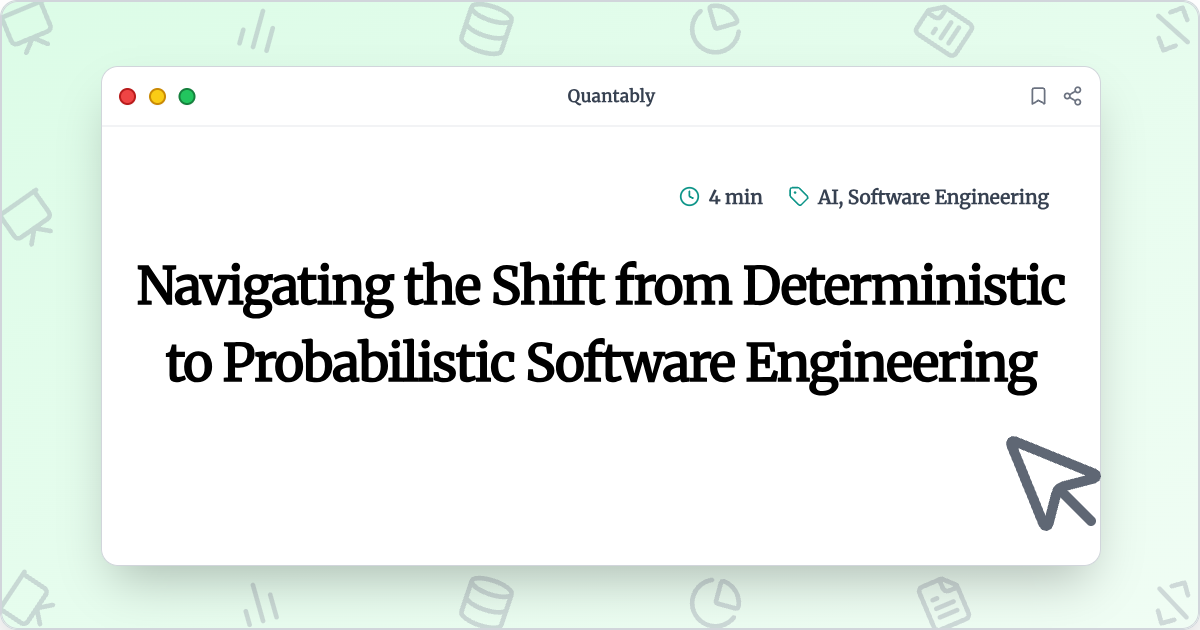
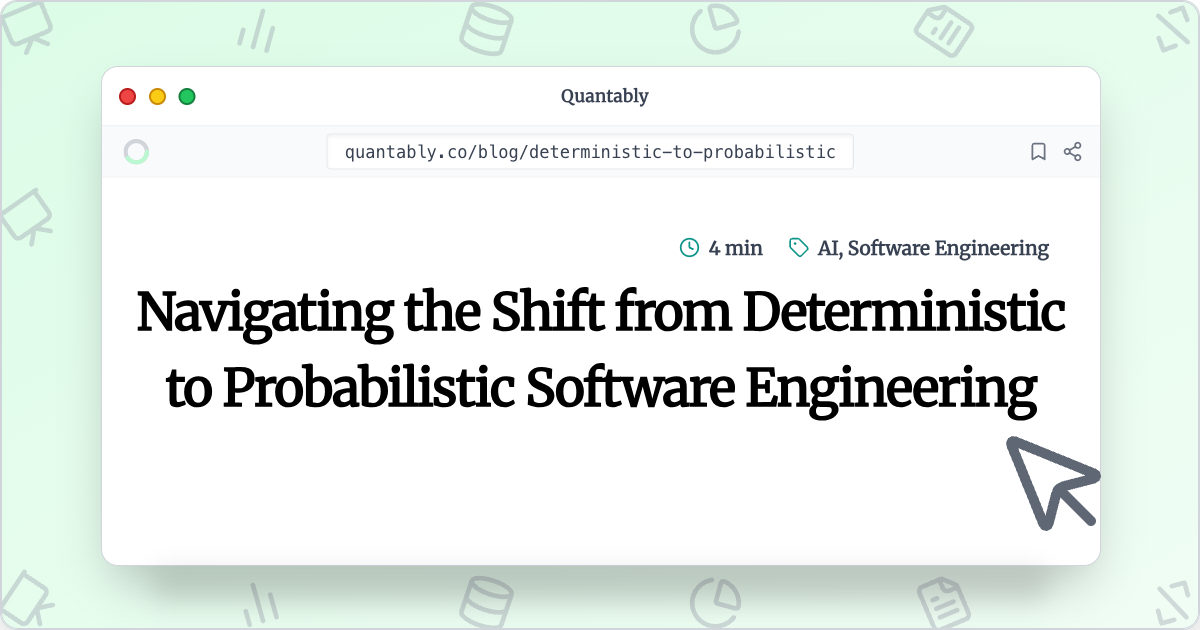
rename post and add tailwind bullets

diff --git a/src/components/SocialMediaCard.js b/src/components/SocialMediaCard.js
@@ -35,6 +35,8 @@ const SocialMediaCard = ({
 
   return (
     <div className="relative w-[1200px] h-[630px] bg-gradient-to-br from-green-100 to-green-50 overflow-hidden border border-gray-300 rounded-2xl shadow-2xl">
+      {/* Subtle shadow beneath the window for depth */}
+      <div className="absolute left-1/2 -translate-x-1/2 bottom-6 w-[900px] h-8 bg-black/10 rounded-full blur-md z-30 pointer-events-none" />
       {/* Window frame border */}
       <div className="absolute inset-0 border border-gray-300 rounded-2xl pointer-events-none z-40" />
 
@@ -80,8 +82,37 @@ const SocialMediaCard = ({
               <div className="flex-1 text-center">
                 <span className="text-base font-semibold text-gray-700 tracking-wide">{siteName}</span>
               </div>
-              {/* Bookmark/share icons placeholder */}
-              <div className="flex items-center space-x-3">
+              {/* Empty right side for symmetry */}
+              <div className="w-16" />
+            </div>
+            {/* URL bar with loading spinner, URL, and bookmark/share icons */}
+            <div className="h-12 flex items-center px-4 border-b border-gray-100 bg-gray-50">
+              {/* Loader with progress in green matching background */}
+              <div className="flex items-center justify-center w-8 h-8 mr-2">
+                <svg className="h-6 w-6" viewBox="0 0 24 24">
+                  {/* Background circle */}
+                  <circle cx="12" cy="12" r="10" stroke="#d1d5db" strokeWidth="4" fill="none" />
+                  {/* Progress arc in green (matching background) */}
+                  <circle
+                    cx="12"
+                    cy="12"
+                    r="10"
+                    stroke="#bbf7d0"
+                    strokeWidth="4"
+                    fill="none"
+                    strokeDasharray={2 * Math.PI * 10}
+                    strokeDashoffset={(1 - progress / 100) * 2 * Math.PI * 10}
+                    strokeLinecap="round"
+                    style={{ transition: 'stroke-dashoffset 0.5s' }}
+                  />
+                </svg>
+              </div>
+              {/* URL display */}
+              <div className="flex-1 flex items-center justify-center">
+                <span className="text-gray-700 text-base font-mono bg-white px-4 py-1 rounded border border-gray-200 shadow-inner" style={{ minWidth: '340px', textAlign: 'center' }}>{displayUrl}</span>
+              </div>
+              {/* Bookmark/share icons */}
+              <div className="flex items-center space-x-3 ml-2">
                 <Bookmark className="w-5 h-5 text-gray-500 hover:text-teal-600 transition" />
                 <Share2 className="w-5 h-5 text-gray-500 hover:text-teal-600 transition" />
               </div>

diff --git a/src/style.css b/src/style.css
@@ -173,84 +173,16 @@ p {
   padding: var(--spacing-0);
 }
 
+/* Reduce indentation for lists inside Tailwind Typography's prose class */
+.prose ul,
+.prose ol {
+  padding-left: 1.25em;
+}
+
+/* Remove redundant or conflicting list styles now handled by prose */
 ul,
 ol {
-  margin-left: var(--spacing-0);
-  margin-right: var(--spacing-0);
-  padding: var(--spacing-0);
-  margin-bottom: var(--spacing-8);
-  list-style-position: outside;
-  list-style-image: none;
-}
-
-/* Reduce indentation for top-level lists within main content sections */
-main section > ul,
-main section > ol {
-  /* Adjust this padding value to control indentation */
-  padding-left: 1.5rem; 
-  list-style-position: inside; /* Move bullets inside the text flow */
-}
-
-ul li,
-ol li {
-  padding-left: var(--spacing-0);
-  margin-bottom: var(--spacing-2);
-}
-
-li > p {
-  margin-bottom: var(--spacing-2);
-}
-
-li *:last-child {
-  margin-bottom: var(--spacing-0);
-}
-
-li > ul {
-  margin-left: var(--spacing-8);
-  margin-top: calc(var(--spacing-8) / 2);
-}
-
-blockquote {
-  color: var(--color-text-light);
-  margin-left: calc(-1 * var(--spacing-6));
-  margin-right: var(--spacing-8);
-  padding: var(--spacing-0) var(--spacing-0) var(--spacing-0) var(--spacing-6);
-  border-left: var(--spacing-1) solid var(--color-primary);
-  font-size: var(--fontSize-2);
-  font-style: italic;
-  margin-bottom: var(--spacing-8);
-}
-
-blockquote > :last-child {
-  margin-bottom: var(--spacing-0);
-}
-
-blockquote > ul,
-blockquote > ol {
-  list-style-position: inside;
-}
-
-table {
-  width: 100%;
-  margin-bottom: var(--spacing-8);
-  border-collapse: collapse;
-  border-spacing: 0.25rem;
-}
-
-table thead tr th {
-  border-bottom: 1px solid var(--color-accent);
-}
-
-/* Link */
-
-a {
-  color: var(--color-primary);
-  text-decoration: none; /* Remove underline by default */
-}
-
-a:hover,
-a:focus {
-  text-decoration: none; /* Ensure no underline on hover/focus either */
+  /* Remove margin and padding resets, and list-style overrides that are not needed */
 }
 
 /* Add styles for mobile navigation */
@@ -443,3 +375,11 @@ a:focus {
 .td-title a:hover { 
   text-decoration: underline; /* Add underline on hover for clarity */
 }
+
+/* --- Tailwind Typography (prose) --- */
+/*
+  To enable beautiful, readable defaults for Markdown content, use:
+  <div className="prose"> ... </div>
+  This will style lists, headings, code, blockquotes, etc.
+  Make sure @tailwindcss/typography is installed and added to tailwind.config.js plugins.
+*/

diff --git a/src/templates/blog-post.js b/src/templates/blog-post.js
@@ -46,10 +46,11 @@ const BlogPostTemplate = ({
           )}
         </header>
         <section
+          className="prose prose-lg max-w-none"
           dangerouslySetInnerHTML={{ __html: post.html }}
           itemProp="articleBody"
         />
-        <hr />
+        <hr className="mt-8" />
         <footer>
           {/* Remove Bio component */}
           {/* <Bio /> */}
@@ -124,6 +125,9 @@ export const pageQuery = graphql`
       siteMetadata {
         title
         siteUrl
+        author {
+          name
+        }
       }
     }
     markdownRemark(id: { eq: $id }) {

diff --git a/tailwind.config.js b/tailwind.config.js
@@ -6,5 +6,5 @@ module.exports = {
   theme: {
     extend: {},
   },
-  plugins: [],
+  plugins: [require('@tailwindcss/typography')],
 }

diff --git a/content/blog/expectation-management-powerful-ai-tool/index.md b/content/blog/expectation-management-powerful-ai-tool/index.md
@@ -1,17 +1,18 @@
 ---
-title: The Invisible Skill That Decides AI Success
+title: Why Expectation Management Is Your Most Powerful AI Tool
 date: 2025-05-10
 tags:
   - Leadership
 summary: "The most successful AI projects I've led share a common trait. It's not superior technology or bigger budgets. It's a discipline that most companies overlook entirely"
-featuredImage: "./reporting-table.png"
 ---
 
 The most successful AI projects I've led share a common trait. It's not superior technology or bigger budgets. It's a discipline that most companies overlook entirely<!-- excerpt -->: expectation setting.
 
-You need the right technology, talent, and infrastructure. Those are a given. But when AI projects fail, it's rarely due to technical shortcomings. It's expectation setting that makes or breaks them.
+By the end of this post, you'll understand how to master the three critical layers of AI expectation setting and implement four practical approaches that will dramatically improve your project outcomes.
 
 ## Why AI Demands a New Approach
+
+You need the right technology, talent, and infrastructure. Those are a given. But when AI projects fail, it's rarely due to technical shortcomings. It's expectation setting that makes or breaks them. 
 
 Setting expectations isn't a new idea, but it's especially critical in AI. Three key factors make it challenging:
 
